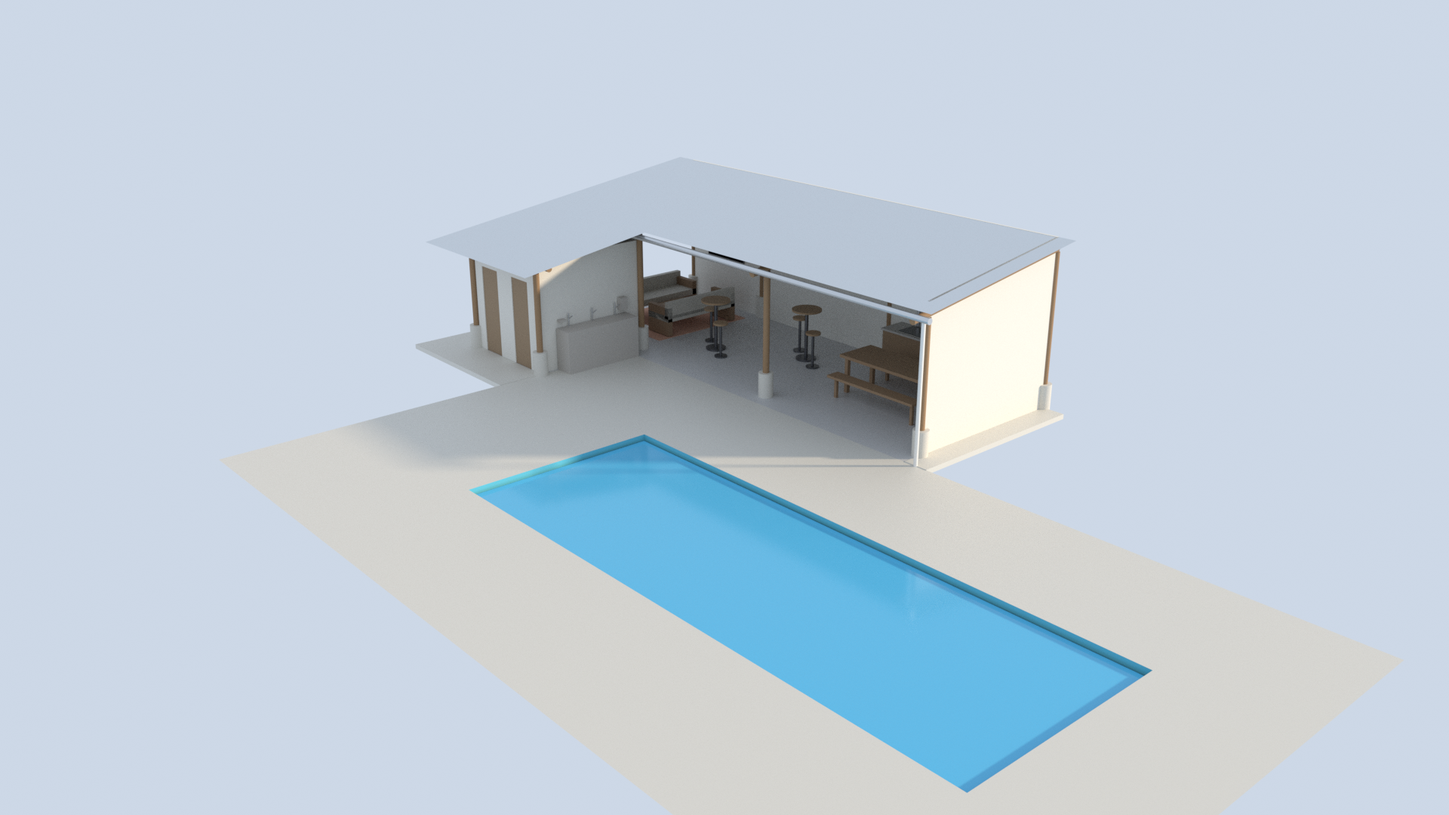
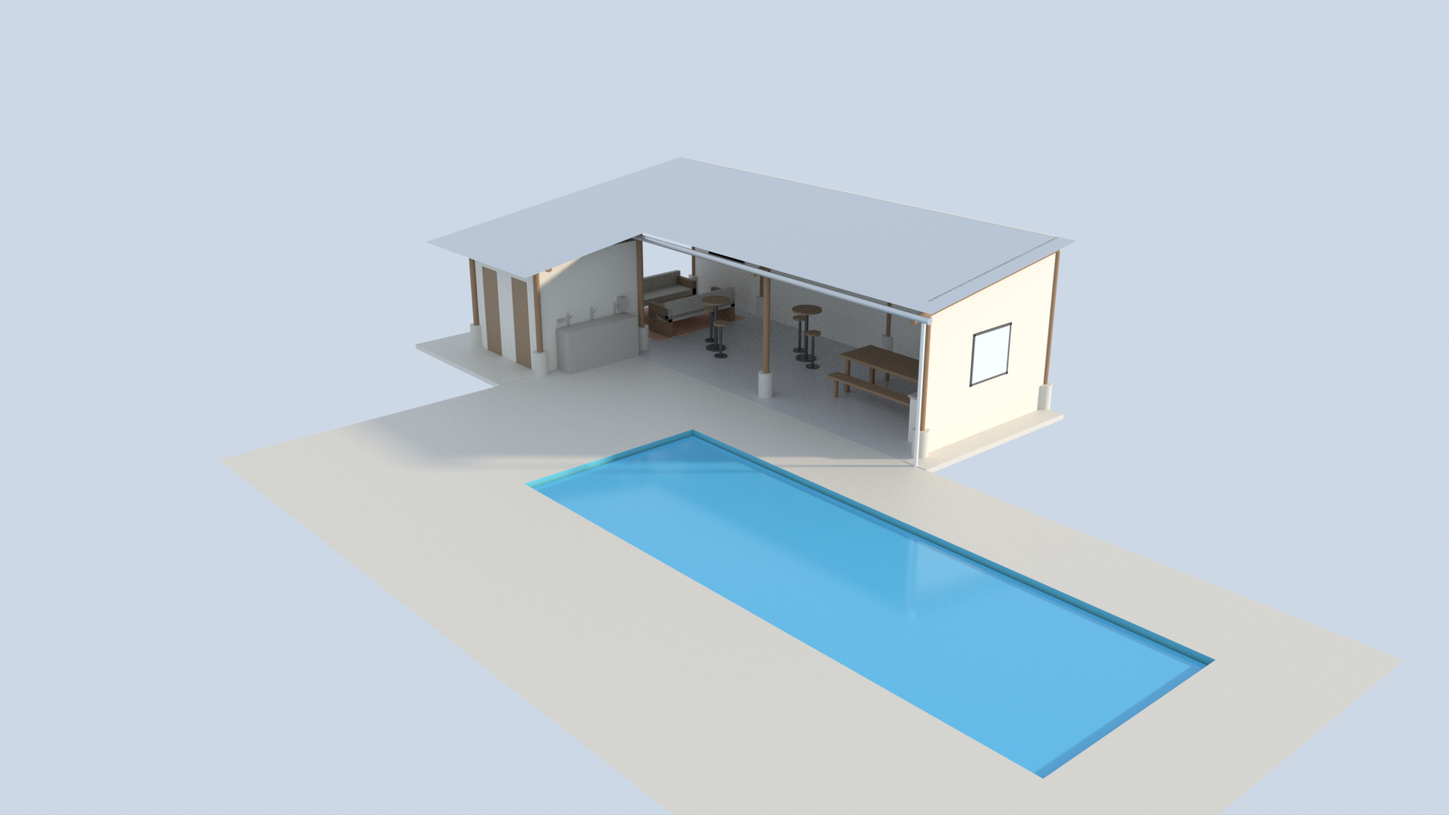
Redesenha hidráulica da pia da cozinha e atualiza orçamento com a janela
- render_esgoto_medidas.py: desenha de verdade a tubulação de água fria e
  esgoto da pia da cozinha (antes só indicava fora do quadro); reposiciona
  a pia para a parede sul sob a janela; corrige destino das duas pias
  (comunitária + cozinha) para a represa, não a fossa (só os vasos vão
  para a fossa); comprimentos de tubulação agora calculados a partir do
  próprio desenho.
- orcamento.html: corrige área do muro tendinoso descontando o vão da
  janela da cozinha, adiciona esquadria e caixa de gordura, atualiza
  comprimentos de tubulação com os valores medidos no desenho.
- Inclui o desenho hidrossanitário nas especificações do projeto (site e
  PDF) e reordena o menu de plantas técnicas.
- Regenera renders 3D desatualizados (projeto_render_base/anotado,
  vista_15m_T2_V1, vista_10m_entre_P6_P2) com o layout atual da cozinha.

Changed region(s): [[0.3125, 0.5194, 0.8438, 0.9778], [0.5938, 0.3972, 0.6875, 0.4583], [0.625, 0.4889, 0.6562, 0.5194]]

diff --git a/site/orcamento.html b/site/orcamento.html
@@ -42,7 +42,7 @@
     <div class="sum-cell"><div class="n">7,0<span class="u">m³</span></div><div class="l">concreto estrutural (fase 1)</div></div>
     <div class="sum-cell"><div class="n">84,5<span class="u">m</span></div><div class="l">eucalipto roliço (fase 2)</div></div>
     <div class="sum-cell"><div class="n">65,3<span class="u">m²</span></div><div class="l">telha PIR a comprar (fase 3)</div></div>
-    <div class="sum-cell"><div class="n">79,3<span class="u">m²</span></div><div class="l">muro tendinoso (fase 4)</div></div>
+    <div class="sum-cell"><div class="n">78,2<span class="u">m²</span></div><div class="l">muro tendinoso (fase 4)</div></div>
     <div class="sum-cell"><div class="n">4<span class="u">un.</span></div><div class="l">portas + pia comunitária (fase 5)</div></div>
     <div class="sum-cell"><div class="n">59,4<span class="u">m²</span></div><div class="l">radier total (piso+calçada)</div></div>
   </div>
@@ -54,7 +54,7 @@
       <li>Malha pop de referência Q92 (2,45×6,00 m) — confirmar bitola com o calculista.</li>
       <li>Madeira: eucalipto roliço tratado, comprimentos fechados de 0,50 em 0,50 m.</li>
       <li>Fossa séptica biodigestora 1.300 ℓ + sumidouro — dimensão final depende de teste de infiltração (não feito).</li>
-      <li>Água servida (duchas + pia comunitária) segue separada para uma represa existente, não passa pela fossa.</li>
+      <li>Água servida (duchas + pia comunitária + pia da cozinha) segue separada para uma represa existente — nenhuma pia passa pela fossa, só os 2 vasos sanitários.</li>
     </ul>
   </div>
 
@@ -97,12 +97,14 @@
       <thead><tr><th>Item</th><th>Especificação</th><th class="qty">Quantidade</th></tr></thead>
       <tbody>
         <tr><td><span class="tag metal">fixação</span> Chumbador parabolt 3/8"×100 mm</td><td>2 por pedestal, para a chapa U</td><td class="qty">20 un.</td></tr>
-        <tr><td><span class="tag water">água fria</span> Tubo PVC 25/20 mm</td><td>Ramal principal + ramais aos 8 pontos</td><td class="qty">≈35 m</td></tr>
-        <tr><td><span class="tag water">esgoto sanitário</span> Tubo PVC 100 mm</td><td>2 vasos + pia da bancada → fossa</td><td class="qty">≈14 m</td></tr>
-        <tr><td><span class="tag water">esgoto sanitário</span> Fossa séptica biodigestora</td><td>1.300 ℓ, carga reduzida (só vasos+cozinha)</td><td class="qty">1 un.</td></tr>
+        <tr><td><span class="tag water">água fria</span> Tubo PVC 25/20 mm</td><td>Ramal principal + ramais aos 8 pontos, inclui ramal de ~13 m até a pia da cozinha</td><td class="qty">34,4 m → 38 m</td></tr>
+        <tr><td><span class="tag water">esgoto sanitário</span> Tubo PVC 100 mm</td><td>Só os 2 vasos → fossa (nenhuma pia)</td><td class="qty">7,8 m → 9 m</td></tr>
+        <tr><td><span class="tag water">esgoto sanitário</span> Fossa séptica biodigestora</td><td>1.300 ℓ, carga reduzida (só os 2 vasos)</td><td class="qty">1 un.</td></tr>
         <tr><td><span class="tag water">esgoto sanitário</span> Sumidouro</td><td>Anéis Ø1,50 m, prof. ≈2,00 m</td><td class="qty">1 un.</td></tr>
-        <tr><td><span class="tag water">água servida</span> Tubo PVC 40 mm</td><td>2 duchas + pia comunitária → represa (não passa pela fossa)</td><td class="qty">≈8 m + ramal até a represa (a medir)</td></tr>
+        <tr><td><span class="tag water">água servida</span> Tubo PVC 40 mm</td><td>2 duchas + pia comunitária + pia da cozinha → represa (não passa pela fossa); pia da cozinha soma ~13 m ao longo da parede leste</td><td class="qty">33,2 m → 37 m até a caixa de inspeção + ramal até a represa (a medir)</td></tr>
+        <tr><td><span class="tag concrete">caixa</span> Caixa de gordura</td><td>Recomendada antes da pia da cozinha entrar no coletor de água servida (evita graxa na represa) — dimensão a definir</td><td class="qty">1 un.</td></tr>
         <tr><td><span class="tag water">caixas</span> Passagem/inspeção 40×40</td><td>1 antes da fossa + 1 antes da represa</td><td class="qty">2 un.</td></tr>
+        <tr class="sub"><td colspan="3">Comprimentos medidos no desenho hidrossanitário (<a href="../renders/esgoto_quiosque_medidas.png">esgoto_quiosque_medidas.png</a>), com +10-15% de folga para conexões/emendas na coluna "comprar".</td></tr>
       </tbody>
     </table>
     </div>
@@ -166,14 +168,15 @@
     <table class="mat">
       <thead><tr><th>Item</th><th>Especificação</th><th class="qty">Quantidade</th></tr></thead>
       <tbody>
-        <tr><td>Fechamento corpo (sul+leste)</td><td>4 painéis</td><td class="qty">46,7 m²</td></tr>
+        <tr><td>Fechamento corpo (sul+leste)</td><td>6 painéis (parede sul com vão de janela)</td><td class="qty">45,6 m²</td></tr>
         <tr><td>Paredes/divisórias do banheiro</td><td>Perímetro + central + 2 partições</td><td class="qty">32,6 m²</td></tr>
-        <tr class="sub"><td colspan="3">Área total: <b>79,3 m²</b></td></tr>
-        <tr><td>Malha/tela metálica tensionada</td><td>Núcleo estrutural</td><td class="qty">79,3 m²</td></tr>
-        <tr><td>Varão CA-60 Ø1/4"</td><td>Horizontal, espaçamento 25 cm</td><td class="qty">≈350 m</td></tr>
+        <tr class="sub"><td colspan="3">Área total: <b>78,2 m²</b> — já descontado o vão da janela da cozinha (1,10 m²)</td></tr>
+        <tr><td>Malha/tela metálica tensionada</td><td>Núcleo estrutural</td><td class="qty">78,2 m²</td></tr>
+        <tr><td>Varão CA-60 Ø1/4"</td><td>Horizontal, espaçamento 25 cm</td><td class="qty">≈345 m</td></tr>
         <tr><td>Arame recozido</td><td>Amarração</td><td class="qty">≈16 kg</td></tr>
-        <tr><td>Argamassa de reboco</td><td>2 faces × 2 cm, sobre 158,6 m²</td><td class="qty">3,2 m³</td></tr>
-        <tr class="sub"><td colspan="3">Traço 1:4 — ≈900 kg cimento (18 sacos) + 3,5 m³ areia fina.</td></tr>
+        <tr><td>Argamassa de reboco</td><td>2 faces × 2 cm, sobre 156,4 m²</td><td class="qty">3,1 m³</td></tr>
+        <tr class="sub"><td colspan="3">Traço 1:4 — ≈890 kg cimento (18 sacos) + 3,4 m³ areia fina.</td></tr>
+        <tr><td><span class="tag metal">esquadria</span> Janela da cozinha</td><td>Vidro + caixilho de alumínio, 1,10×1,00 m, peitoril a 1,00 m — parede sul, sobre a pia (ver counter.py)</td><td class="qty">1 un. · ≈1,0 m² de vidro</td></tr>
       </tbody>
     </table>
     </div>
@@ -209,6 +212,8 @@
       <li>Destino final da caixa de inspeção pluvial (fase 1) — sumidouro próprio ou drenagem existente da propriedade, a definir em campo.</li>
       <li><b>Projeto elétrico não incluído</b> neste levantamento (iluminação, tomadas, ponto para geladeira/fogão/TV) — orçar à parte.</li>
       <li>Fogão: tipo (a gás/GLP ou elétrico) ainda não definido — afeta o projeto elétrico/gás e não está no levantamento acima.</li>
+      <li>Bancada de alvenaria da cozinha (pia + churrasqueira, parede sul) ainda não tem quantitativo próprio de material neste levantamento — só a pia comunitária (fase 5) e a nova janela (fase 4) estão orçadas.</li>
+      <li>Dimensão da caixa de gordura da pia da cozinha (fase 1) a definir — item incluído sem quantitativo, só como pendência de projeto.</li>
     </ul>
   </div>
 </main>

diff --git a/site/caderno-especificacoes.html b/site/caderno-especificacoes.html
@@ -78,13 +78,15 @@
         <div class="spec-row"><span class="l">Material</span><span class="v">Muro tendinoso</span></div>
         <div class="spec-row"><span class="l">Corpo principal</span><span class="v">sul + leste, até o telhado</span></div>
         <div class="spec-row"><span class="l">Banheiros</span><span class="v">h 2,50 m, verga s/ portas</span></div>
-        <div class="spec-row"><span class="l">Área total</span><span class="v">79,3 m²</span></div>
+        <div class="spec-row"><span class="l">Janela da cozinha</span><span class="v">1,10×1,00 m, parede sul, sobre a pia</span></div>
+        <div class="spec-row"><span class="l">Área total</span><span class="v">78,2 m² (já descontado o vão da janela)</span></div>
       </div>
     </div>
 
     <div class="gal-strip">
       <figure><img src="../renders/piso_quiosque_medidas.png" alt="Piso do quiosque e calçada, com medidas"><figcaption>Piso do quiosque + calçada — medidas</figcaption></figure>
       <figure><img src="../renders/planta_quiosque_anotada.png" alt="Planta geral cotada dos pilares"><figcaption>Planta geral — pilares P1–P10</figcaption></figure>
+      <figure><img src="../renders/esgoto_quiosque_medidas.png" alt="Rede hidrossanitária, com medidas"><figcaption>Rede hidrossanitária — água fria, esgoto e represa</figcaption></figure>
       <figure><img src="../renders/vista_aerea.png" alt="Vista aérea da propriedade com a piscina"><figcaption>Vista aérea — piscina + quiosque</figcaption></figure>
     </div>
   </section>

diff --git a/site/assets/gallery.js b/site/assets/gallery.js
@@ -6,9 +6,9 @@
       items: [
         ["renders/planta_quiosque_anotada.png", "Planta geral — pilares, terças e vigas, cotada"],
         ["renders/piso_quiosque_medidas.png", "Piso do quiosque + calçada — medidas"],
-        ["renders/telhado_quiosque_medidas.png", "Projeto do telhado — telha sanduíche PIR, terças"],
         ["renders/banheiro_planta_medidas.png", "Banheiros da ala — planta e medidas (caixa de brita)"],
-        ["renders/esgoto_quiosque_medidas.png", "Rede hidrossanitária — água fria, esgoto e represa"]
+        ["renders/esgoto_quiosque_medidas.png", "Rede hidrossanitária — água fria, esgoto e represa"],
+        ["renders/telhado_quiosque_medidas.png", "Projeto do telhado — telha sanduíche PIR, terças"]
       ]
     },
     {

diff --git a/site/caderno-galeria.html b/site/caderno-galeria.html
@@ -65,9 +65,9 @@
     ["renders/projeto_render.png", "Vista geral do projeto"],
     ["renders/planta_quiosque_anotada.png", "Planta técnica — pilares, terças e vigas"],
     ["renders/piso_quiosque_medidas.png", "Piso + calçada — medidas"],
-    ["renders/telhado_quiosque_medidas.png", "Telhado — telha sanduíche PIR, terças"],
     ["renders/banheiro_planta_medidas.png", "Banheiros — planta e medidas"],
     ["renders/esgoto_quiosque_medidas.png", "Rede hidrossanitária"],
+    ["renders/telhado_quiosque_medidas.png", "Telhado — telha sanduíche PIR, terças"],
     ["renders/vista_entrada.png", "Vista da entrada"],
     ["renders/vista_aerea.png", "Vista aérea"],
     ["renders/vista_corredor.png", "Corredor"],

diff --git a/hidrossanitario/render_esgoto_medidas.py b/hidrossanitario/render_esgoto_medidas.py
@@ -12,7 +12,9 @@ Pontos de consumo/esgoto (coordenadas derivadas de bathroom.py / counter.py):
   - Ducha 1 (-1,29 ; 10,175)   Ducha 2 (-1,29 ; 11,325)
   - Sanit. 1 (-0,59 ; 10,175)  Sanit. 2 (-0,59 ; 11,325)   [vaso, caixa acoplada]
   - Pia comunitária (-0,90 ; 9,32)
-  - Pia da bancada (3,675 ; 2,65)
+  - Pia da bancada/cozinha (2,20 ; 1,805) — parede SUL, sob a janela
+    (revisão 14/09/2026: bancada de alvenaria única com a churrasqueira;
+    saiu da parede leste, ver counter.py/wall.py)
 
 Fossa séptica biodigestora 1.300 L + sumidouro: posição esquemática ao
 norte da Calçada Norte (y > 13,0) — local definitivo a medir em campo.
@@ -62,7 +64,7 @@ D2Y = (BYM + BY1) / 2.0
 DUCHA_X = BXM - WT / 2.0 - 0.35
 VASO_X = BXM + WT / 2.0 + 0.27
 PIA_COM = (-0.90, 9.32)
-PIA_BAN = (3.675, 2.65)
+PIA_BAN = (2.20, 1.805)  # parede sul, sob a janela (counter.py: PIA_SUL_CX/pia_cy)
 
 # fossa/sumidouro (posição esquemática)
 FOSSA = (1.0, 14.2)
@@ -78,7 +80,7 @@ REPRESA = (-3.5, 15.1)
 REP_R = 0.85
 
 WX0, WX1 = -4.5, 4.3
-WY0, WY1 = 8.9, 16.6
+WY0, WY1 = 0.9, 16.6
 MARGIN = 210
 SCALE = 120
 
@@ -130,6 +132,25 @@ wall_rect(BXM - WT / 2, BXM + WT / 2, BY0, BY1)
 wall_rect(BX0, BXM, BYM - WT / 2, BYM + WT / 2)
 wall_rect(BXM, BX1, BYM - WT / 2, BYM + WT / 2)
 
+# --- Contexto: parede sul/leste do corpo (cozinha) + janela + bancada ------
+# (muro tendinoso — wall.py; bancada de alvenaria — counter.py)
+Y_SUL = 1.5
+WIN_X0, WIN_X1 = 1.65, 2.75
+WALL_WT = 0.05
+wall_rect(0.4 - WALL_WT / 2, WIN_X0, Y_SUL - WALL_WT / 2, Y_SUL + WALL_WT / 2)
+wall_rect(WIN_X1, 4.0 + WALL_WT / 2, Y_SUL - WALL_WT / 2, Y_SUL + WALL_WT / 2)
+wall_rect(4.0 - WALL_WT / 2, 4.0 + WALL_WT / 2, Y_SUL, 5.5)
+d.rectangle([wx(WIN_X0), wy(Y_SUL) - 6, wx(WIN_X1), wy(Y_SUL) + 6],
+            fill=(150, 200, 220, 150), outline=(60, 60, 60, 200), width=1)
+
+BANC_SUL_X0, BANC_SUL_X1 = 0.75, 3.75
+PIA_SUL_Y_WALL, PIA_SUL_DEPTH = 1.53, 0.55
+d.rectangle([wx(BANC_SUL_X0), wy(PIA_SUL_Y_WALL + PIA_SUL_DEPTH),
+             wx(BANC_SUL_X1), wy(PIA_SUL_Y_WALL)],
+            fill=(210, 205, 195, 110), outline=(150, 145, 135), width=1)
+d.text((wx(BANC_SUL_X1) - 4, wy(PIA_SUL_Y_WALL + PIA_SUL_DEPTH) - 25),
+       "bancada de alvenaria (pia + churrasqueira)", font=F_TINY, fill=(110, 105, 95), anchor="ra")
+
 # --- Pilares (referência, pontos vermelhos) -------------------------------
 PILARES = [(0.4, 1.5), (4.0, 1.5), (4.0, 5.5), (4.0, 9.5), (4.0, 12.0),
            (0.4, 12.0), (-2.25, 12.0), (-2.25, 9.5), (0.4, 9.5), (0.4, 5.5)]
@@ -138,10 +159,17 @@ for px_, py_ in PILARES:
 
 
 # --- Roteamento das tubulações (esquemático, ortogonal) -------------------
-def pline(pts, color, width):
+TOTALS = {"agua_fria": 0.0, "esgoto_sanitario": 0.0, "agua_servida": 0.0}
+
+
+def pline(pts, color, width, categoria=None):
     for i in range(len(pts) - 1):
         d.line([(wx(pts[i][0]), wy(pts[i][1])), (wx(pts[i + 1][0]), wy(pts[i + 1][1]))],
                fill=color, width=width)
+        if categoria:
+            ax, ay = pts[i]
+            bx, by = pts[i + 1]
+            TOTALS[categoria] += ((bx - ax) ** 2 + (by - ay) ** 2) ** 0.5
 
 
 TRUNK_Y = 13.6
@@ -152,9 +180,16 @@ X_DUCHA_AG, X_DUCHA_CZ = DUCHA_X - 0.06, DUCHA_X + 0.06
 X_VASO_AG, X_VASO_ES = VASO_X - 0.06, VASO_X + 0.06
 X_PIA_AG, X_PIA_CZ = PIA_COM[0] - 0.06, PIA_COM[0] + 0.06
 
+# ramal da pia da cozinha: corre junto à parede leste (x=3,9, entre a
+# fileira de pilares e a geladeira/fogão) por baixo do piso, até a altura
+# do coletor da ala (y=13,6), depois vira para a pia (parede sul).
+KITCHEN_X = 3.9
+X_KITCHEN_AG, X_KITCHEN_ES = KITCHEN_X - 0.06, KITCHEN_X + 0.06
+ESG_ROW_Y = TRUNK_Y + 0.15   # linha de esgoto da cozinha, deslocada da água fria
+
 # --- água fria: ramal principal ao longo de y=13,6 ------------------------
-agua_trunk = [(X_DUCHA_AG, TRUNK_Y), (3.675, TRUNK_Y)]
-pline(agua_trunk, BLUE, 5)
+agua_trunk = [(X_DUCHA_AG, TRUNK_Y), (X_KITCHEN_AG, TRUNK_Y)]
+pline(agua_trunk, BLUE, 5, "agua_fria")
 agua_ramais = [
     [(X_DUCHA_AG, TRUNK_Y), (X_DUCHA_AG, D1Y)],
     [(X_DUCHA_AG, D2Y), (X_DUCHA_AG, TRUNK_Y)],
@@ -163,34 +198,52 @@ agua_ramais = [
     [(X_PIA_AG, TRUNK_Y), (X_PIA_AG, PIA_COM[1]), (PIA_COM[0], PIA_COM[1])],
 ]
 for r in agua_ramais:
-    pline(r, BLUE, 3)
+    pline(r, BLUE, 3, "agua_fria")
 d.line([(wx(X_DUCHA_AG), wy(TRUNK_Y) - 14), (wx(X_DUCHA_AG), wy(TRUNK_Y))], fill=BLUE, width=3)
 d.polygon([(wx(X_DUCHA_AG) - 8, wy(TRUNK_Y) - 14), (wx(X_DUCHA_AG) + 8, wy(TRUNK_Y) - 14), (wx(X_DUCHA_AG), wy(TRUNK_Y) - 30)],
           fill=BLUE)
 d.text((wx(X_DUCHA_AG) - 62, wy(TRUNK_Y) - 52), "entrada de água\n(ponto a definir)", font=F_TINY, fill=BLUE)
 
-# --- esgoto SANITÁRIO: só os 2 vasos -> fossa -----------------------------
+# --- água fria: ramal da pia da cozinha (parede sul) ------------------------
+FIX_KITCHEN_AG = (PIA_BAN[0] - 0.06, PIA_BAN[1])
+kitchen_agua = [FIX_KITCHEN_AG, (X_KITCHEN_AG, PIA_BAN[1]), (X_KITCHEN_AG, TRUNK_Y)]
+pline(kitchen_agua, BLUE, 3, "agua_fria")
+
+# --- esgoto SANITÁRIO: só os 2 vasos -> fossa (pias NÃO entram aqui) ------
 esg_coletor = [(X_VASO_ES, TRUNK_Y), CAIXA_SANIT, FOSSA]
-pline(esg_coletor, BROWN, 6)
+pline(esg_coletor, BROWN, 6, "esgoto_sanitario")
 esg_ramais = [
     [(X_VASO_ES, D1Y), (X_VASO_ES, TRUNK_Y)],
     [(X_VASO_ES, D2Y), (X_VASO_ES, TRUNK_Y)],
 ]
 for r in esg_ramais:
-    pline(r, BROWN, 3)
+    pline(r, BROWN, 3, "esgoto_sanitario")
 pline([FOSSA, SUMIDOURO], GREEN, 6)
 
-# --- água servida (greywater): duchas + pia comunitária -> represa --------
-# NÃO passa pela fossa — vaso é o único ponto que vai para lá.
+# --- água servida (greywater): duchas + pia comunitária + pia da cozinha --
+# -> represa. NÃO passa pela fossa — vaso é o único ponto que vai para lá
+# (pedido do usuário: as duas pias, mesmo a da cozinha com gordura, vão
+# para a represa, não para a fossa).
 cinza_coletor = [(X_DUCHA_CZ, TRUNK_Y), CAIXA_CINZA, (REPRESA[0], TRUNK_Y), REPRESA]
-pline(cinza_coletor, GREY, 6)
+pline(cinza_coletor, GREY, 6, "agua_servida")
 cinza_ramais = [
     [(X_DUCHA_CZ, D1Y), (X_DUCHA_CZ, TRUNK_Y)],
     [(X_DUCHA_CZ, D2Y), (X_DUCHA_CZ, TRUNK_Y)],
     [(X_PIA_CZ, PIA_COM[1]), (X_PIA_CZ, TRUNK_Y), CAIXA_CINZA],
 ]
 for r in cinza_ramais:
-    pline(r, GREY, 3)
+    pline(r, GREY, 3, "agua_servida")
+
+# ramal da pia da cozinha: sobe até a altura do coletor (y=13,6), desloca
+# 0,15 m (ESG_ROW_Y) para não correr colado à água fria, e entra na caixa
+# de inspeção da água servida -> daí segue o mesmo trecho até a represa
+# (acima). Recomenda-se caixa de gordura antes desta ligação (ver ficha).
+FIX_KITCHEN_ES = (PIA_BAN[0] + 0.06, PIA_BAN[1])
+kitchen_greywater = [
+    FIX_KITCHEN_ES, (X_KITCHEN_ES, PIA_BAN[1]), (X_KITCHEN_ES, TRUNK_Y),
+    (X_KITCHEN_ES, ESG_ROW_Y), (CAIXA_CINZA[0], ESG_ROW_Y), CAIXA_CINZA,
+]
+pline(kitchen_greywater, GREY, 4, "agua_servida")
 
 # represa (lagoa/reservatório) — ícone esquemático
 d.ellipse([wx(REPRESA[0] - REP_R), wy(REPRESA[1] + REP_R * 0.6),
@@ -202,22 +255,8 @@ for _k in range(3):
            fill=(20, 90, 130, 140), width=2)
 d.text((wx(REPRESA[0]) - 40, wy(REPRESA[1] + REP_R * 0.6) + 6), "REPRESA", font=F_NOTE, fill=(15, 80, 120))
 d.text((wx(REPRESA[0]) - 78, wy(REPRESA[1] + REP_R * 0.6) + 28),
-       "água servida (duchas + pia)\nposição esquemática — local\nreal e distância a definir",
+       "água servida (duchas + 2 pias)\nposição esquemática — local\nreal e distância a definir",
        font=F_TINY, fill=(15, 80, 120))
-
-# pia da bancada (cozinha) fica ~11 m ao sul, fora do recorte -> ramal
-# INDEPENDENTE (não se junta ao coletor da ala), indicado por 2 setas que
-# saem de quadro, deslocadas uma da outra para não se sobreporem.
-_pbx_agua, _pbx_esg = 3.60, 3.80
-d.line([(wx(_pbx_agua), wy(TRUNK_Y) - 34), (wx(_pbx_agua), wy(TRUNK_Y) - 4)], fill=BLUE, width=4)
-d.polygon([(wx(_pbx_agua) - 7, wy(TRUNK_Y) - 34), (wx(_pbx_agua) + 7, wy(TRUNK_Y) - 34), (wx(_pbx_agua), wy(TRUNK_Y) - 48)],
-          fill=BLUE)
-d.line([(wx(_pbx_esg), wy(TRUNK_Y) - 34), (wx(_pbx_esg), wy(TRUNK_Y) - 4)], fill=BROWN, width=4)
-d.polygon([(wx(_pbx_esg) - 7, wy(TRUNK_Y) - 34), (wx(_pbx_esg) + 7, wy(TRUNK_Y) - 34), (wx(_pbx_esg), wy(TRUNK_Y) - 48)],
-          fill=BROWN)
-d.text((wx(_pbx_agua) - 200, wy(TRUNK_Y) - 100),
-       "PIA DA BANCADA (cozinha)\nramal independente\n~11 m ao sul, fora do recorte",
-       font=F_TINY, fill=(90, 90, 90), align="right")
 
 for cx_, cy_ in (CAIXA_CINZA, CAIXA_SANIT):
     d.rectangle([wx(cx_) - 7, wy(cy_) - 7, wx(cx_) + 7, wy(cy_) + 7], fill=(90, 90, 88, 230),
@@ -238,12 +277,16 @@ fixture(X_VASO_AG, D2Y, "", "", BLUE)
 fixture(X_VASO_ES, D2Y, "", "", BROWN)
 fixture(X_PIA_AG, PIA_COM[1], "", "", BLUE)
 fixture(X_PIA_CZ, PIA_COM[1], "", "", GREY)
+fixture(FIX_KITCHEN_AG[0], FIX_KITCHEN_AG[1], "", "", BLUE)
+fixture(FIX_KITCHEN_ES[0], FIX_KITCHEN_ES[1], "", "", GREY)
 
 d.text((wx(DUCHA_X) - 58, wy(D1Y) - 34), "DUCHA 1", font=F_TINY, fill=(20, 24, 30))
 d.text((wx(DUCHA_X) - 58, wy(D2Y) + 14), "DUCHA 2", font=F_TINY, fill=(20, 24, 30))
 d.text((wx(VASO_X) + 12, wy(D1Y) - 34), "SANIT. 1", font=F_TINY, fill=(20, 24, 30))
 d.text((wx(VASO_X) + 12, wy(D2Y) + 14), "SANIT. 2", font=F_TINY, fill=(20, 24, 30))
 d.text((wx(PIA_COM[0]) - 70, wy(PIA_COM[1]) - 30), "PIA COMUNITÁRIA", font=F_TINY, fill=(20, 24, 30))
+d.text((wx(PIA_BAN[0]) - 96, wy(PIA_BAN[1]) - 40),
+       "PIA DA COZINHA\n(parede sul, sob a janela)", font=F_TINY, fill=(20, 24, 30))
 
 # --- Fossa + sumidouro -----------------------------------------------------
 d.rectangle([wx(FOSSA[0] - FOSSA_W / 2), wy(FOSSA[1] + FOSSA_H / 2),
@@ -269,9 +312,11 @@ def _label(mx, my, text, color, font=F_DIM):
 
 
 # --- Rótulos de diâmetro nos trechos principais ---------------------------
-_label(wx(0.9), wy(TRUNK_Y) - 22, "água fria 25 mm", BLUE, F_TINY)
+_label(wx(-0.55), wy(TRUNK_Y) - 22, "água fria 25 mm", BLUE, F_TINY)
 _label(wx(FOSSA[0]) + 90, (wy(FOSSA[1]) + wy(CAIXA_SANIT[1])) / 2, "esgoto\nsanitário\n100 mm", BROWN, F_TINY)
 _label((wx(CAIXA_CINZA[0]) + wx(REPRESA[0] + 1.0)) / 2, wy(TRUNK_Y) + 24, "água servida 40 mm", GREY, F_TINY)
+_label(wx(X_KITCHEN_AG) - 46, wy((TRUNK_Y + PIA_BAN[1]) / 2), "água fria\n20 mm", BLUE, F_TINY)
+_label(wx(X_KITCHEN_ES) + 50, wy((TRUNK_Y + PIA_BAN[1]) / 2), "água servida\nc/ gordura\n40 mm", GREY, F_TINY)
 
 # --- Ficha lateral ----------------------------------------------------
 fx0 = wx(WX1) + 30
@@ -285,17 +330,20 @@ lines = [
     "",
     "REDE SEPARADA EM 2 DESTINOS (esgoto):",
     "  SANITÁRIO (só os 2 vasos) -> fossa -> sumidouro",
-    "  ÁGUA SERVIDA (2 duchas + pia comunitária) -> represa",
-    "  (a ducha NÃO passa pela fossa — só água de banho/sabão)",
-    "  Pia da bancada (cozinha, tem gordura): segue p/ a fossa",
-    "  — ver ramal independente à parte, no topo direito",
+    "  ÁGUA SERVIDA (2 duchas + pia comunitária + pia da",
+    "  cozinha) -> represa — NENHUMA pia vai para a fossa",
+    "  (pedido do usuário; só os vasos usam a fossa)",
+    "  Pia da cozinha: ramal próprio de ~13 m ao longo da",
+    "  parede leste (x=3,9) até a caixa de água servida;",
+    "  RECOMENDA-SE caixa de gordura antes dessa ligação",
+    "  (a pia tem gordura — não modelada aqui, a definir)",
     "",
     "Água fria: PVC soldável 25 mm (ramal) / 20 mm (pontos)",
-    "Esgoto sanitário (vasos): PVC 100 mm",
-    "Água servida (duchas/pia): PVC 40 mm",
+    "Esgoto sanitário (só vasos): PVC 100 mm",
+    "Água servida (duchas/pias): PVC 40 mm",
     "",
-    "Fossa séptica biodigestora 1.300 L (só 2 vasos + pia da",
-    "  bancada — carga reduzida) + sumidouro Ø1,50 m",
+    "Fossa séptica biodigestora 1.300 L (só os 2 vasos —",
+    "  carga reduzida) + sumidouro Ø1,50 m",
     "  — dimensão final do sumidouro depende de teste",
     "  de infiltração do solo (não feito)",
     "",
@@ -309,6 +357,15 @@ lines = [
     "  ESQUEMÁTICAS — locais reais, distâncias e a ligação",
     "  até o ponto de água existente precisam ser medidos",
     "  em campo.",
+    "",
+    "COMPRIMENTOS MEDIDOS NESTE DESENHO (soma dos trechos",
+    "  desenhados, sem perda de corte/emenda):",
+    f"  Água fria (ramal principal + todos os ramais): {TOTALS['agua_fria']:.1f} m",
+    f"  Esgoto sanitário (só os 2 vasos -> fossa): {TOTALS['esgoto_sanitario']:.1f} m",
+    f"  Água servida (duchas + pia comunitária + pia da cozinha",
+    f"  -> represa, sem contar o trecho até a represa em si): {TOTALS['agua_servida']:.1f} m",
+    "  (não inclui o ramal represa->caixa nem entrada->trunk,",
+    "  que dependem de locais a medir em campo)",
 ]
 for i, ln in enumerate(lines):
     d.text((fx0 + 14, fy0 + 46 + i * 19), ln, font=F_TINY, fill=(20, 24, 30))
@@ -317,11 +374,12 @@ lg = fy0 + 46 + len(lines) * 19 + 10
 d.line([(fx0 + 14, lg), (fx0 + 30, lg)], fill=BLUE, width=4)
 d.text((fx0 + 38, lg - 9), "água fria", font=F_TINY, fill=(20, 24, 30))
 d.line([(fx0 + 14, lg + 22), (fx0 + 30, lg + 22)], fill=BROWN, width=4)
-d.text((fx0 + 38, lg + 13), "esgoto sanitário (vasos -> fossa)", font=F_TINY, fill=(20, 24, 30))
+d.text((fx0 + 38, lg + 13), "esgoto sanitário (só vasos -> fossa)", font=F_TINY, fill=(20, 24, 30))
 d.line([(fx0 + 14, lg + 44), (fx0 + 30, lg + 44)], fill=GREY, width=4)
-d.text((fx0 + 38, lg + 35), "água servida (duchas+pia -> represa)", font=F_TINY, fill=(20, 24, 30))
+d.text((fx0 + 38, lg + 35), "água servida (duchas+pias -> represa)", font=F_TINY, fill=(20, 24, 30))
 d.line([(fx0 + 14, lg + 66), (fx0 + 30, lg + 66)], fill=GREEN, width=4)
 d.text((fx0 + 38, lg + 57), "fossa / sumidouro", font=F_TINY, fill=(20, 24, 30))
 
 img.save(OUT)
 print("ESGOTO_MEDIDAS_OK:", OUT)
+print("TOTALS:", {k: round(v, 2) for k, v in TOTALS.items()})

diff --git a/documentacao/gerar_pdf.py b/documentacao/gerar_pdf.py
@@ -208,8 +208,9 @@ gallery = [
     ("Vista geral do projeto", "projeto_render.png"),
     ("Planta técnica do quiosque - pilares, terças e vigas", "planta_quiosque_anotada.png"),
     ("Piso do quiosque + calçada - medidas", "piso_quiosque_medidas.png"),
-    ("Projeto do telhado - telha sanduíche PIR, terças e telhas", "telhado_quiosque_medidas.png"),
     ("Banheiros da ala - planta e medidas (caixa de brita)", "banheiro_planta_medidas.png"),
+    ("Rede hidrossanitária - água fria, esgoto e represa", "esgoto_quiosque_medidas.png"),
+    ("Projeto do telhado - telha sanduíche PIR, terças e telhas", "telhado_quiosque_medidas.png"),
     ("Vista da entrada (do lado da piscina)", "vista_entrada.png"),
     ("Vista aérea 3/4 da propriedade", "vista_aerea.png"),
     ("Vista interna do corredor", "vista_corredor.png"),
